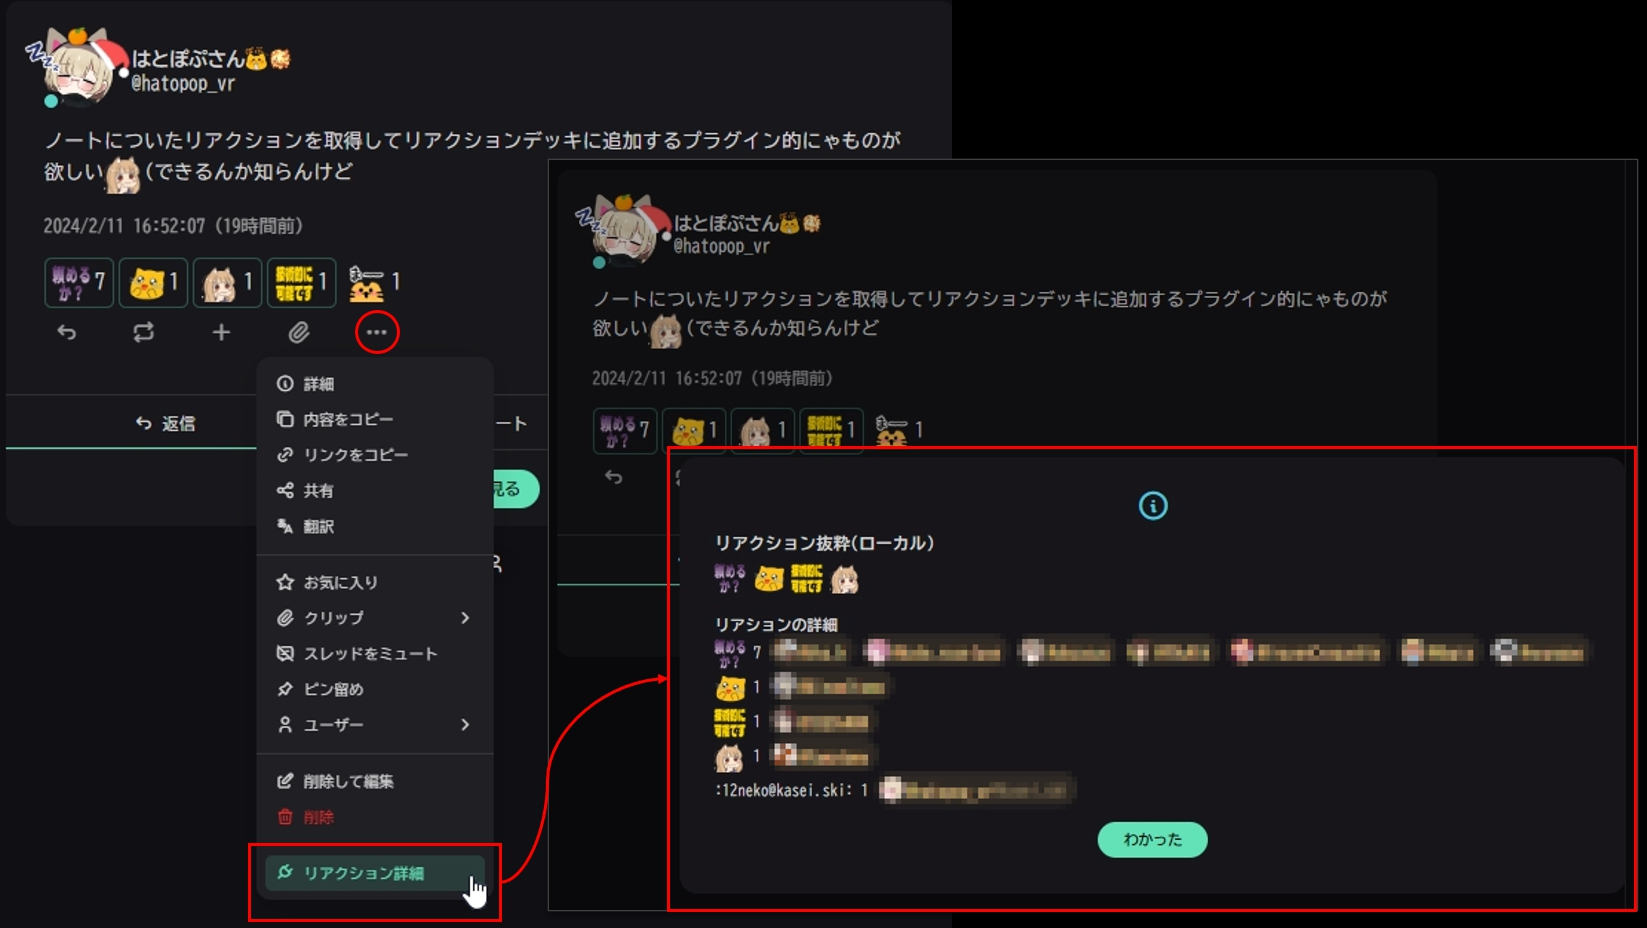
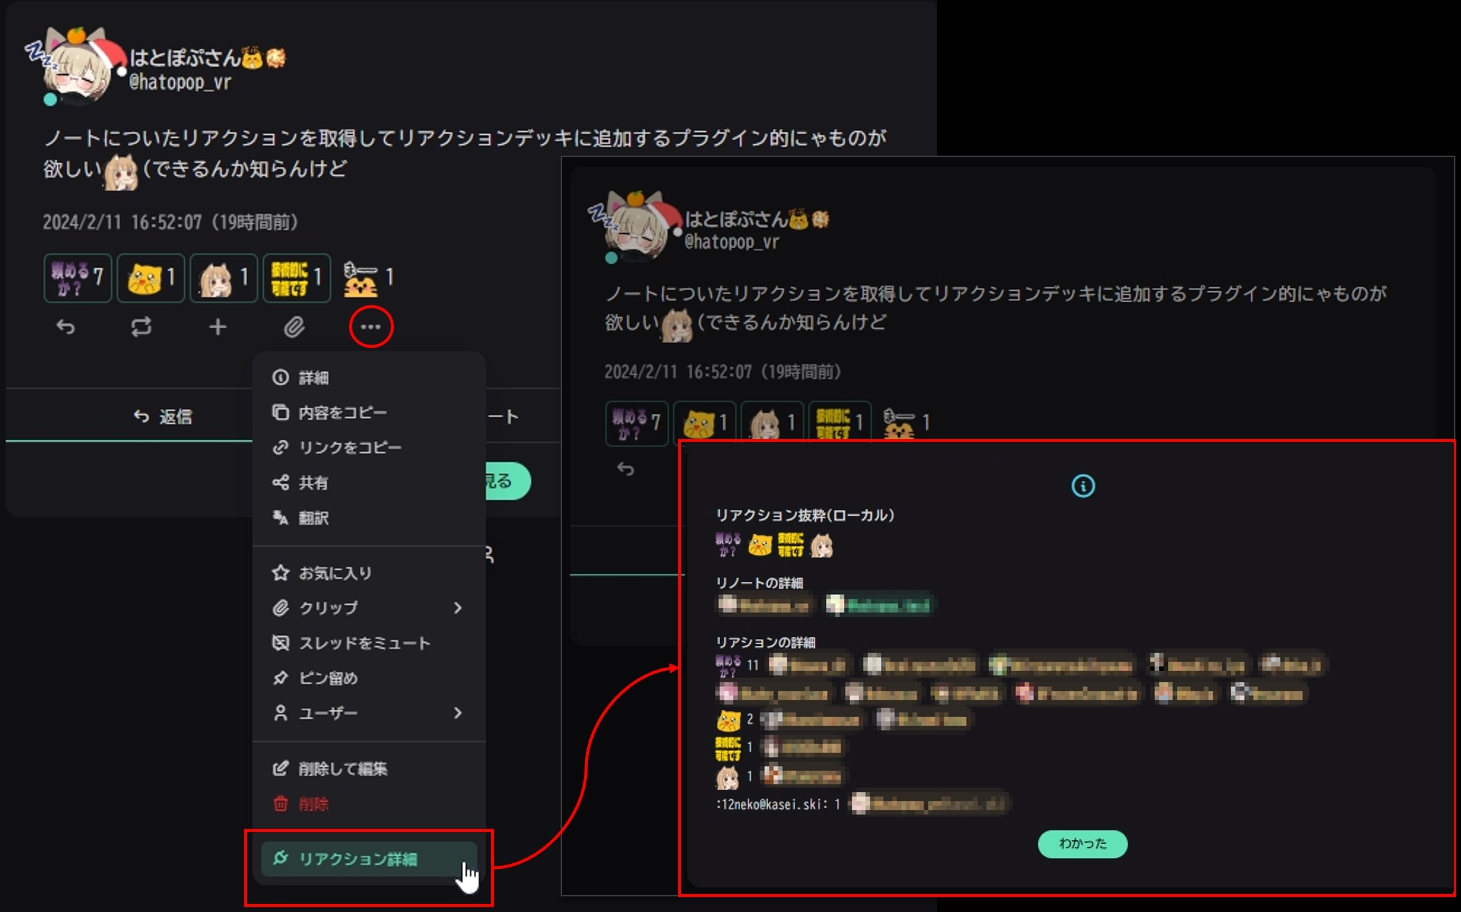
v0.2.0 リノート追加

diff --git a/README.md b/README.md
@@ -1,10 +1,10 @@
 # misskey-note-reaction-viewer-plugin
-特定のノートにリアクションをつけたユーザーの一覧を簡易に表示するMisskeyプラグインです。
+特定のノートにリアクション・リノートをつけたユーザーの一覧を簡易に表示するMisskeyプラグインです。
 [AiScript](https://github.com/syuilo/aiscript/tree/master)によって記述されています。
 
 ## 使い方
 
-- 該当のノートの`･･･`メニューからプラグインボタン`リアクション詳細`を選択すると、リアクションを取得し、ダイアログウインドウで表示します。
+- 該当のノートの`･･･`メニューからプラグインボタン`リアクション詳細`を選択すると、リアクション・リノートを取得し、ダイアログウインドウで表示します。
 
 ![image](images/image_001.jpg)
 
@@ -14,6 +14,19 @@
 2. ダウンロードした内容を全てコピーします。
 3. Misskeyの`設定 > プラグインのインストール`のテキストエリアに貼付けます。
 4. `インストール`ボタンを押します。
+
+###  カスタムCSSでのダイアログの表示修正
+以下は、ダイアログのテキスト表示を左詰めにしてウインドウサイズを変更するカスタムCSSです。
+デフォルトではテキストは中心揃えで、ウインドウ最大サイズが小さいため、作者は変更して利用しています。
+数値は自環境に合わせて適切に調整してください。
+```css
+.xa5A4 {
+    min-width: 320px;
+    max-width: 2000px;  /* original 480px; */
+    box-sizing: border-box;
+    text-align: left; /* original center; */
+}
+```
 
 ## 作者
 [@hatopop_vr@misskey.io](https://misskey.io/@hatopop_vr)
